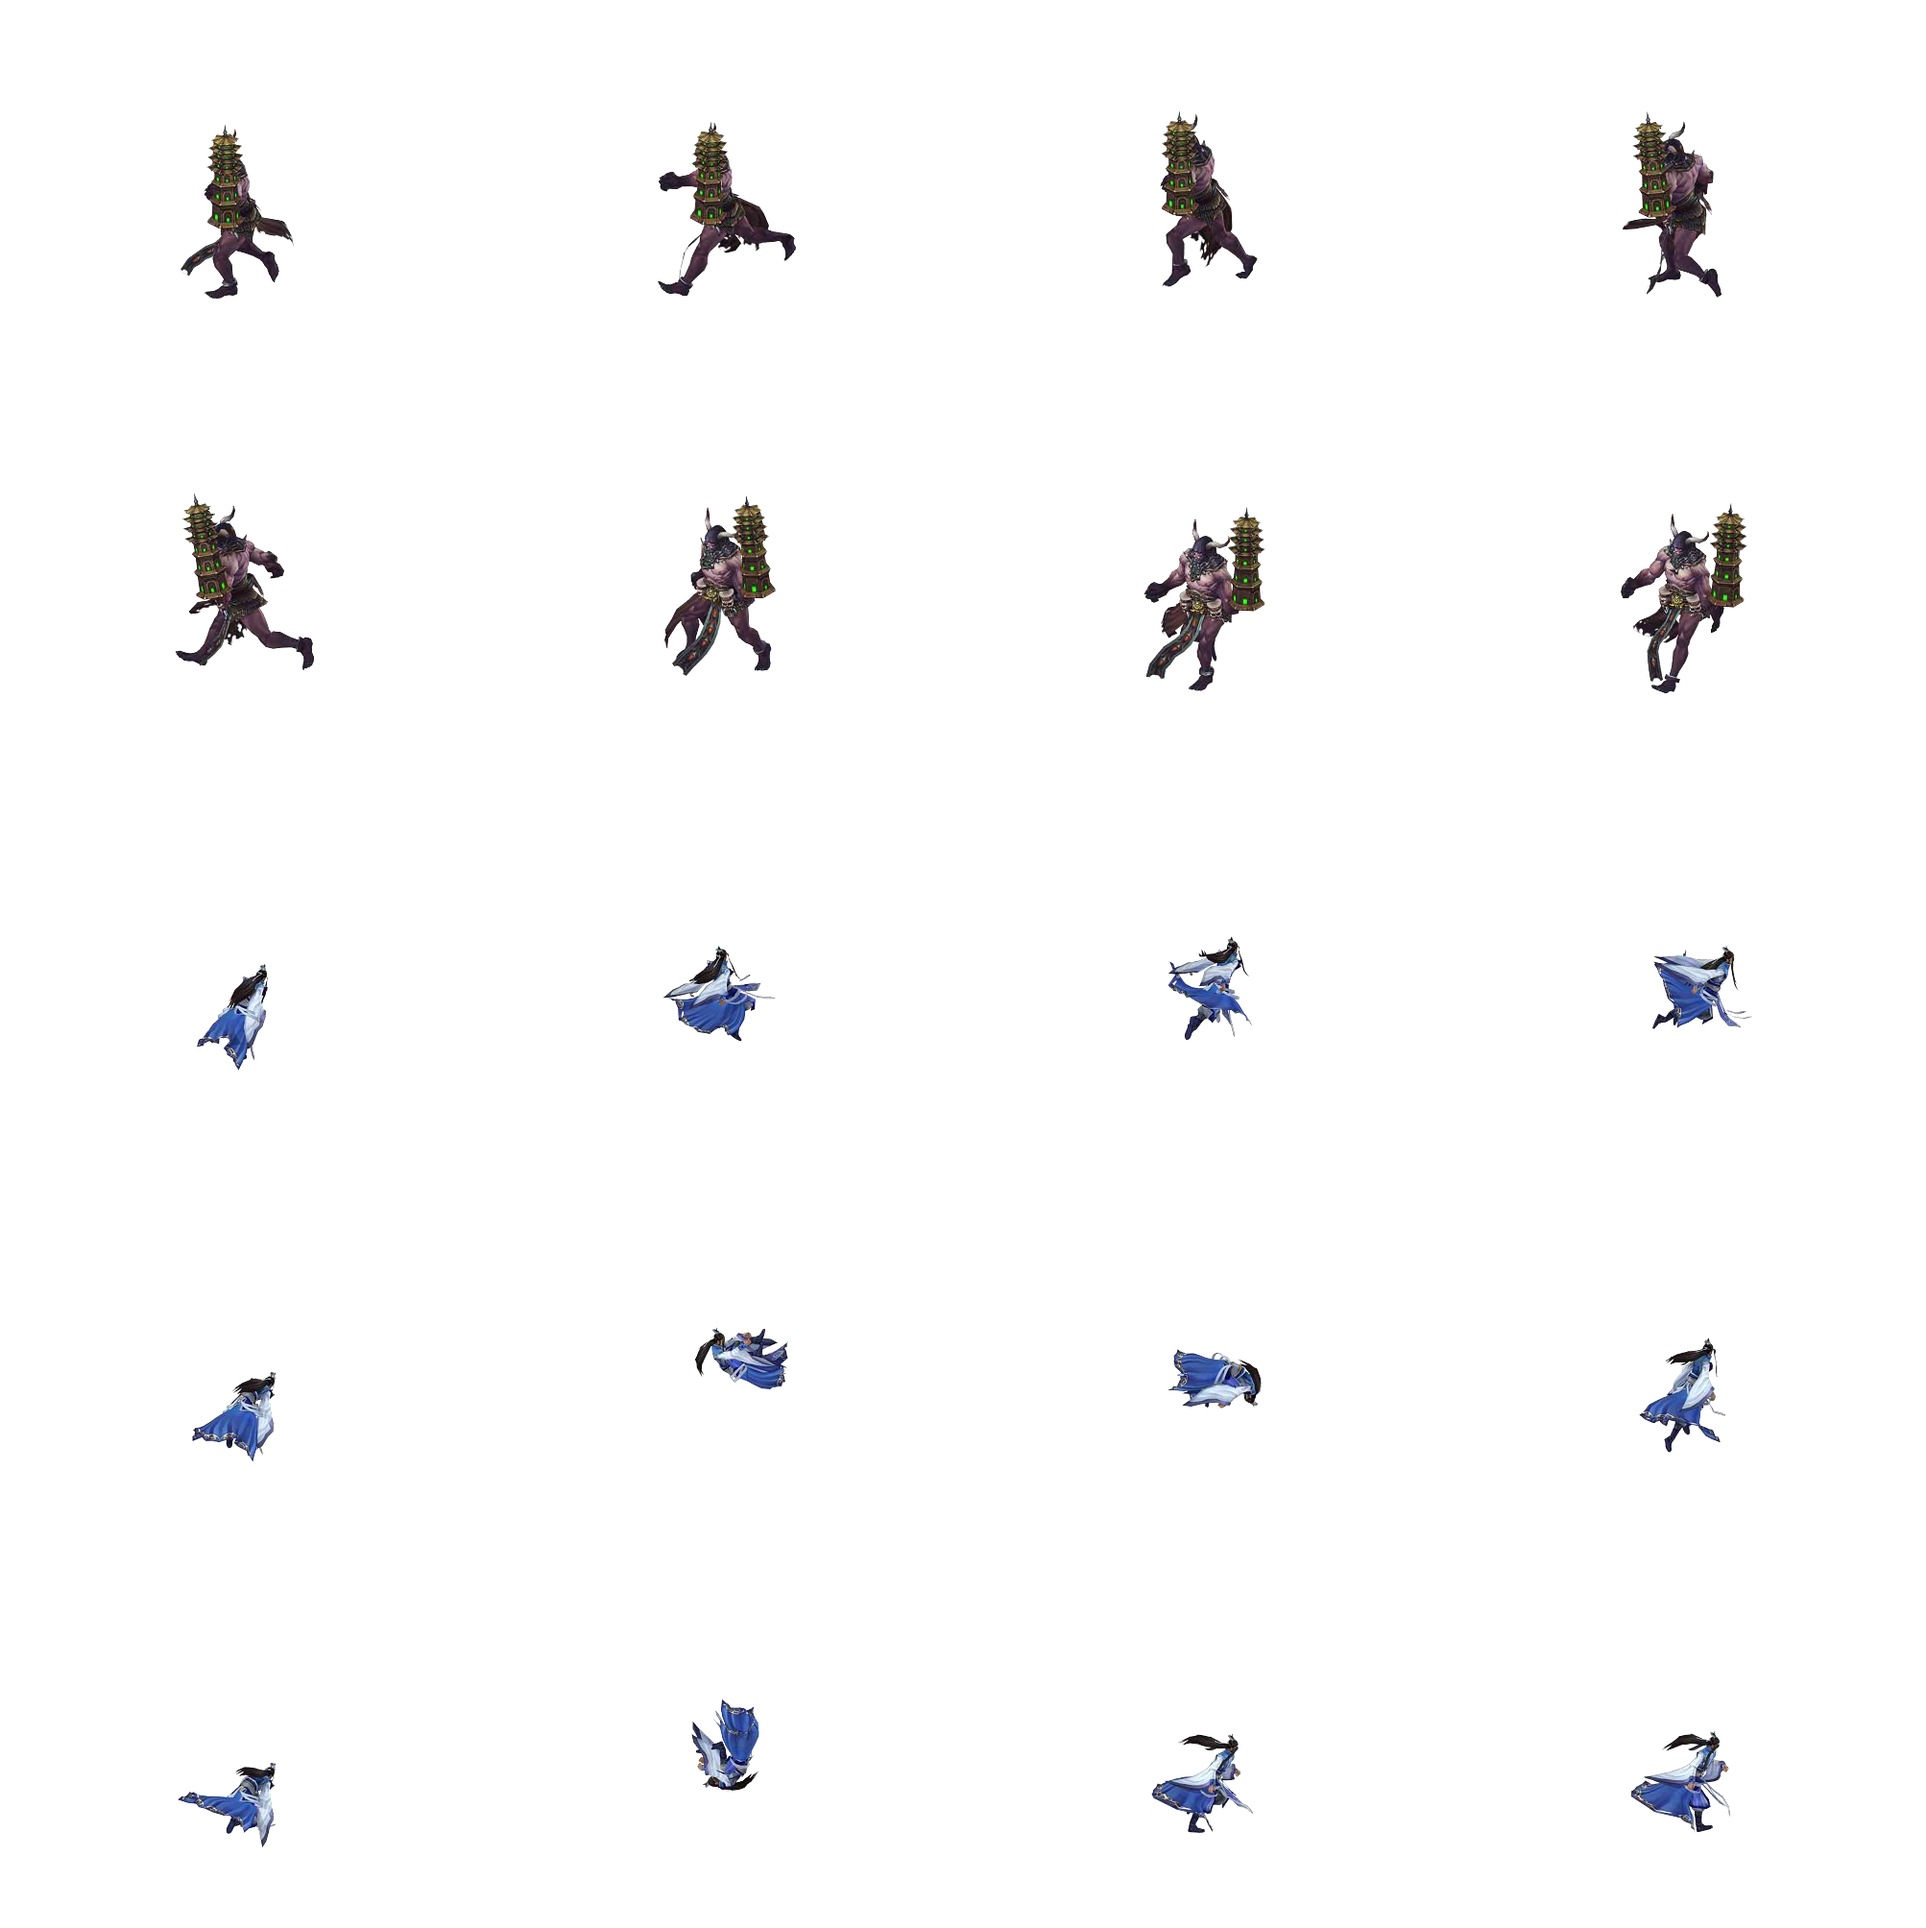
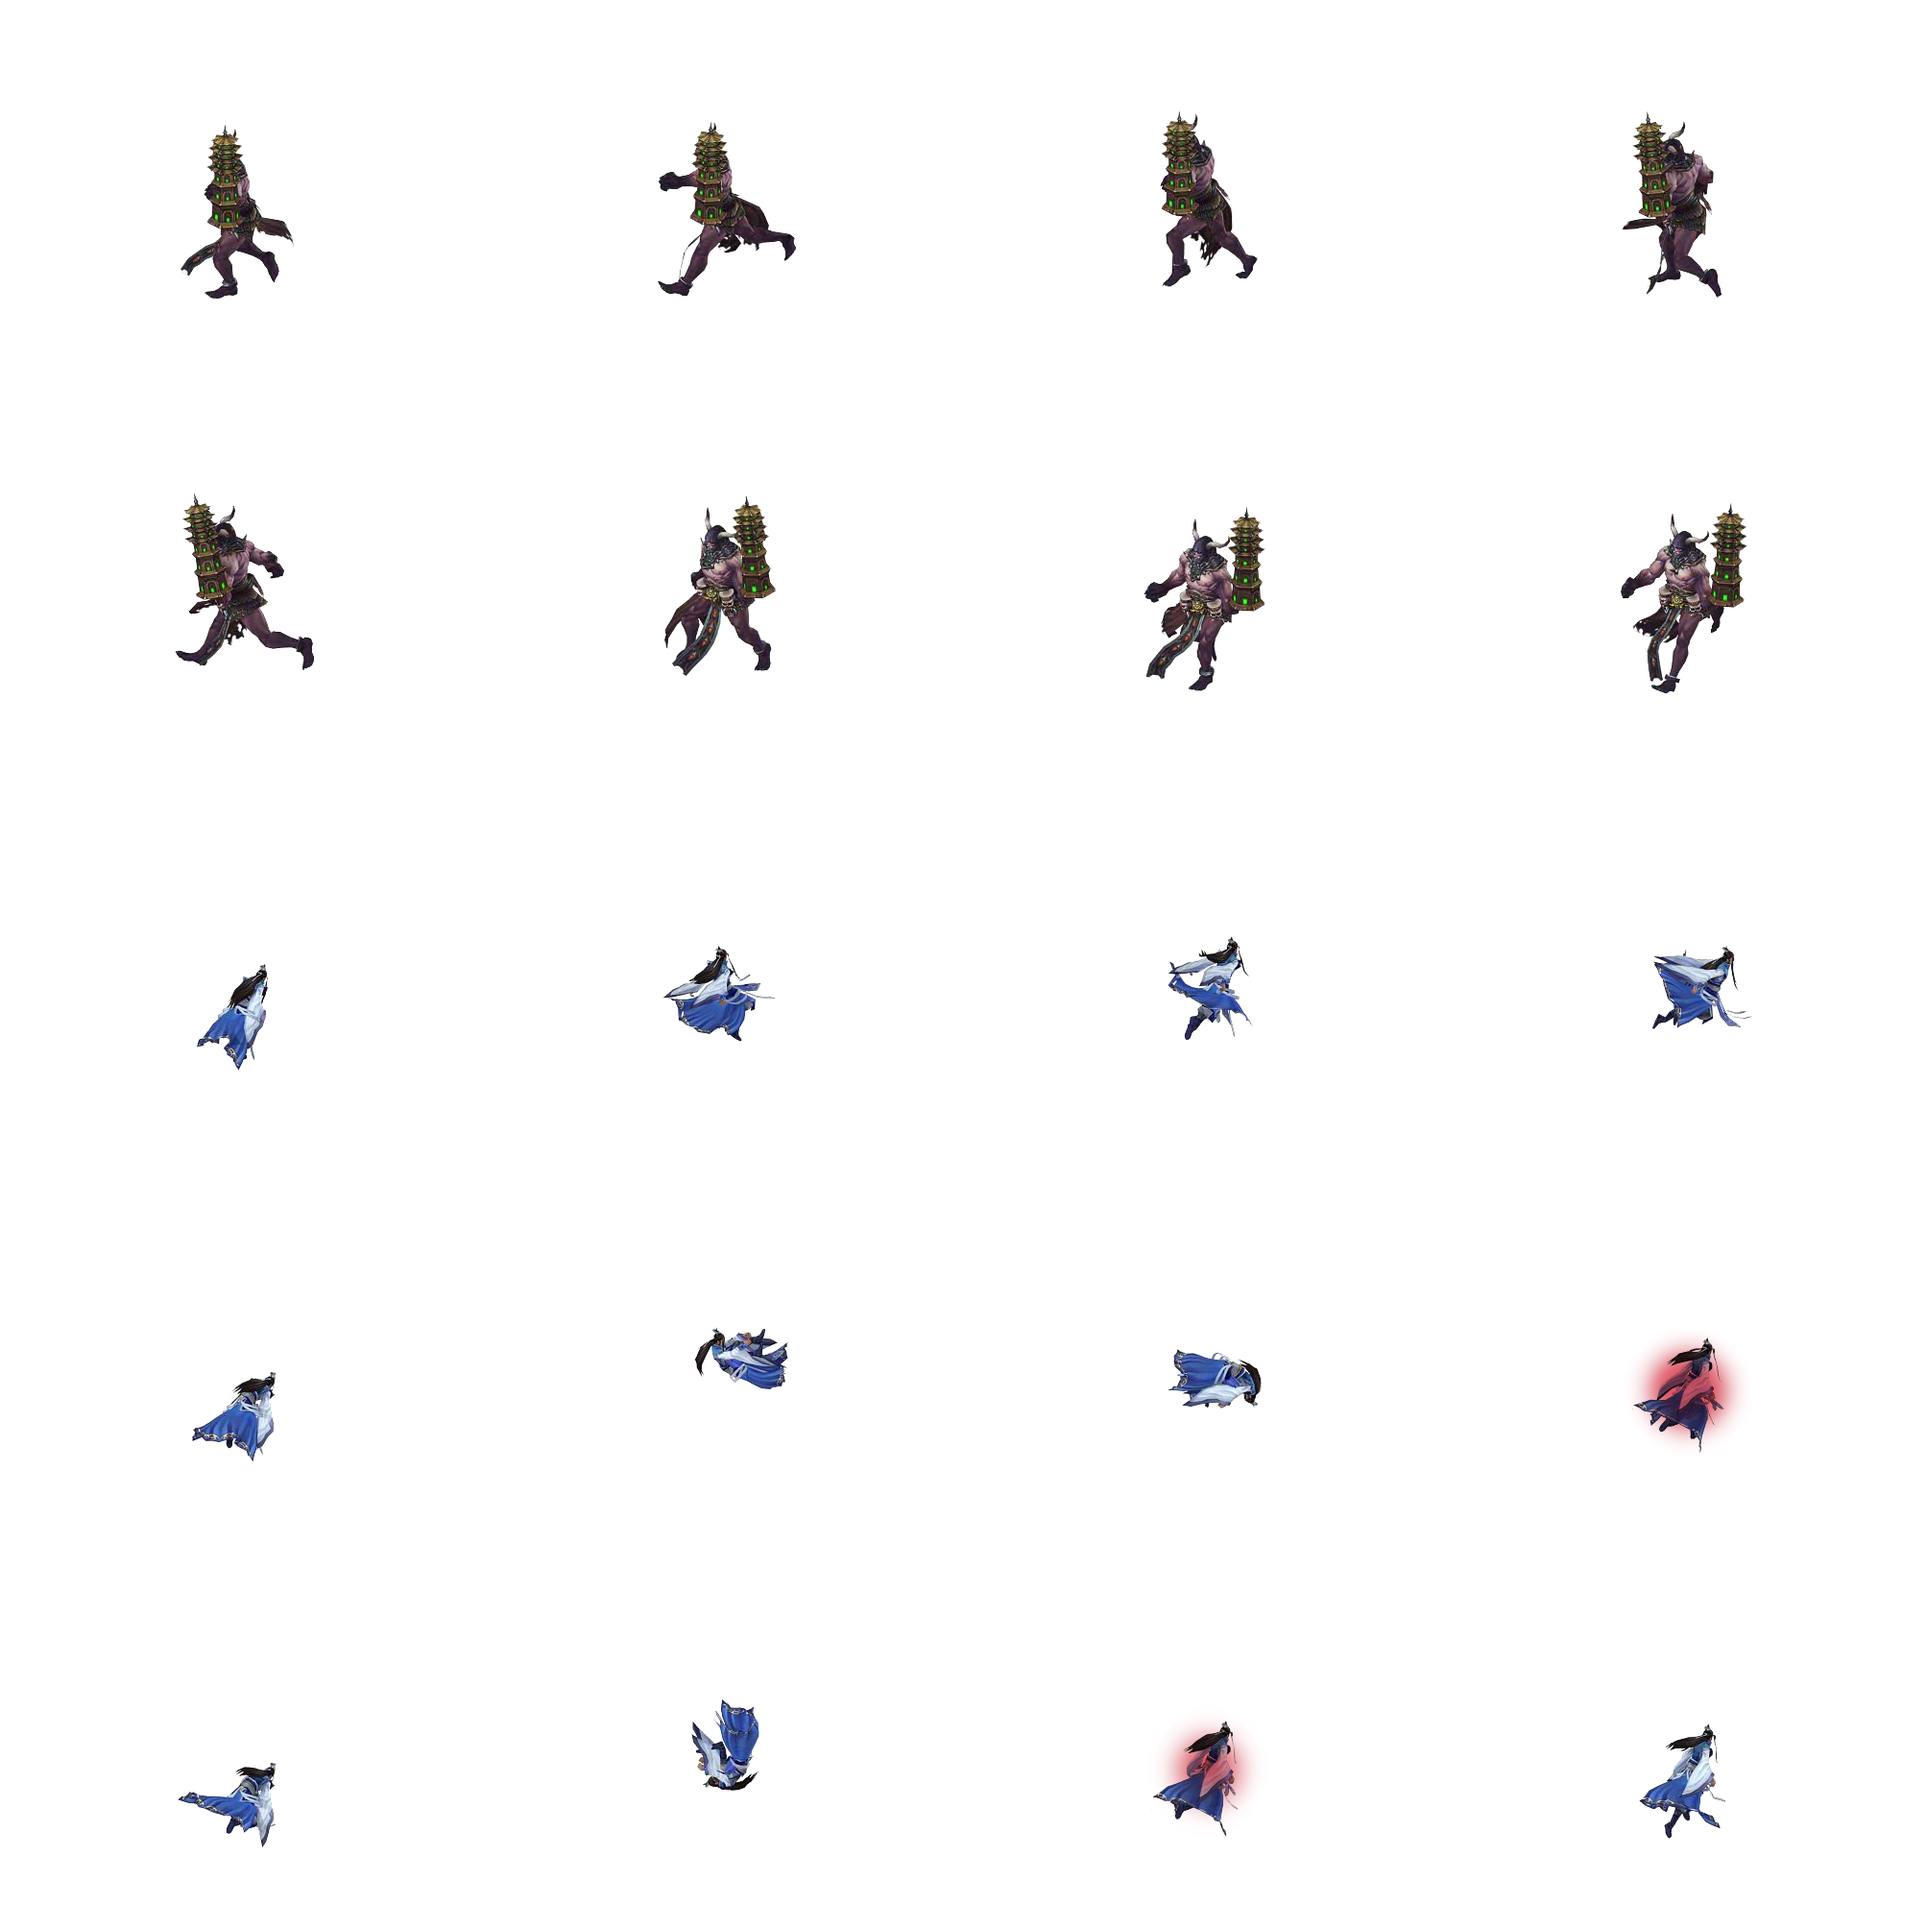
add hero hit

Changed region(s): [[0.8345, 0.6793, 0.9272, 0.7719], [0.5872, 0.8954, 0.6491, 0.9572], [0.8345, 0.8954, 0.8963, 0.9572]]

diff --git a/bin/js/Role.js b/bin/js/Role.js
@@ -32,6 +32,8 @@ var Role = (function (_super) {
             //hero down
             Laya.Animation.createFrames(['war/hero_down1.png', 'war/hero_down2.png', 'war/hero_down3.png', 'war/hero_down4.png',
                 'war/hero_down5.png', 'war/hero_down6.png', 'war/hero_down7.png', 'war/hero_down8.png', 'war/hero_down9.png'], 'hero_down');
+            //hero hit
+            Laya.Animation.createFrames(['war/hero_hit1.png', 'war/hero_hit2.png'], 'hero_hit');
             //enemy1 down
             Laya.Animation.createFrames(['war/enemy1_down1.png', 'war/enemy1_down2.png', 'war/enemy1_down3.png', 'war/enemy1_down4.png'], 'enemy1_down');
             //enemy1 hit

diff --git a/src/Role.ts b/src/Role.ts
@@ -37,6 +37,8 @@ class Role extends Laya.Sprite{
             //hero down
             Laya.Animation.createFrames(['war/hero_down1.png','war/hero_down2.png','war/hero_down3.png','war/hero_down4.png',
             'war/hero_down5.png','war/hero_down6.png','war/hero_down7.png','war/hero_down8.png','war/hero_down9.png'],'hero_down');
+            //hero hit
+            Laya.Animation.createFrames(['war/hero_hit1.png','war/hero_hit2.png'],'hero_hit');
 
             //enemy1 down
             Laya.Animation.createFrames(['war/enemy1_down1.png','war/enemy1_down2.png','war/enemy1_down3.png','war/enemy1_down4.png'],'enemy1_down');
